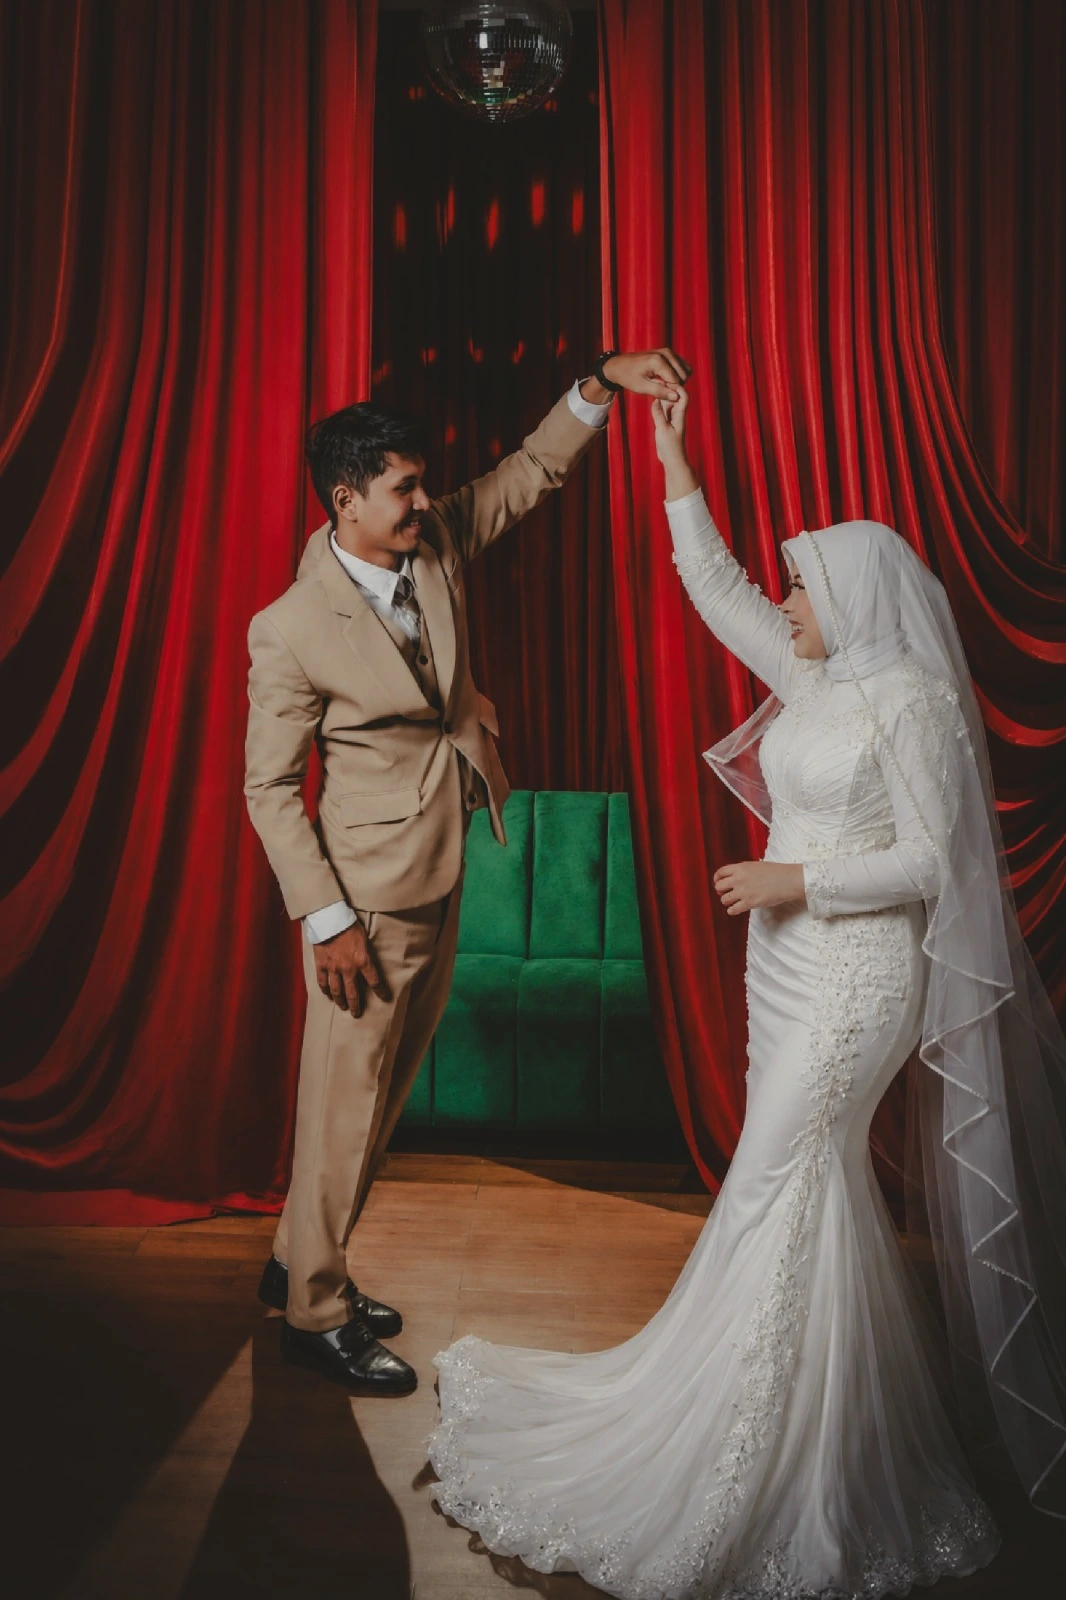
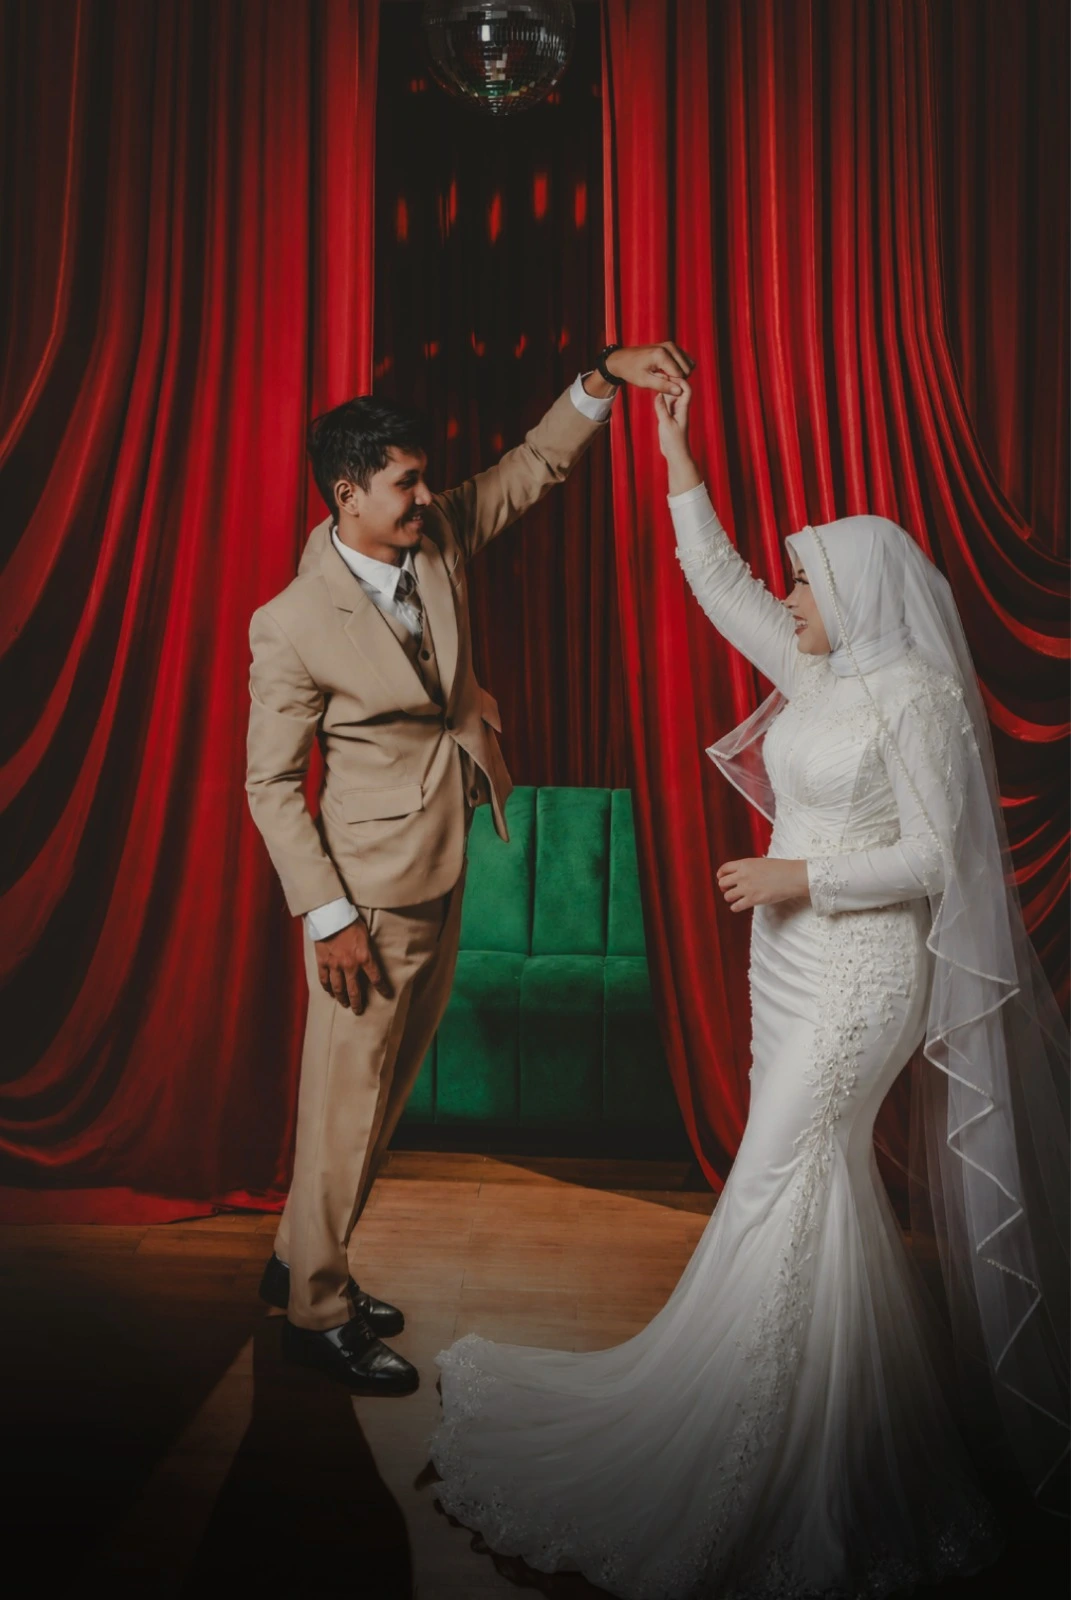
update again

diff --git a/src/components/sections/ClosingSection.tsx b/src/components/sections/ClosingSection.tsx
@@ -1,8 +1,7 @@
-import { Heart } from 'lucide-react'
 import { weddingData } from '../../data/wedding.data'
+import logoImage from '../../assets/logo-400.webp'
 
 export default function ClosingSection() {
-  const closingName = `${weddingData.groom.firstName} & ${weddingData.bride.firstName}`
   const fallbackImg = 'https://images.unsplash.com/photo-1519741497674-611481863552?w=1920&q=80&fit=crop'
   const closingImage = weddingData.gallery?.[4]?.src || weddingData.gallery?.[0]?.src || fallbackImg
 
@@ -11,100 +10,51 @@ export default function ClosingSection() {
       id="closing"
       data-section
       data-theme="dark"
-      data-wow="true"
-      className="relative -mt-px flex min-h-screen w-full flex-col justify-end overflow-hidden bg-[#050505] px-6 pb-32 pt-32 text-[#F5F5F0] transition-colors duration-500 md:px-12 md:pb-40"
+      className="relative flex min-h-screen w-full flex-col items-center justify-between overflow-hidden bg-[#050505] px-6 py-12 md:py-20 text-[#F5F5F0]"
     >
-      <div
-        className="absolute inset-0 z-0"
-        style={{
-          WebkitMaskImage:
-            'linear-gradient(to bottom, rgba(0,0,0,0.24) 0%, rgba(0,0,0,0.58) 20%, rgba(0,0,0,0.88) 58%, #000 84%)',
-          maskImage:
-            'linear-gradient(to bottom, rgba(0,0,0,0.24) 0%, rgba(0,0,0,0.58) 20%, rgba(0,0,0,0.88) 58%, #000 84%)',
-        }}
-      >
+      {/* Background Image */}
+      <div className="absolute inset-0 z-0">
         <img
           src={closingImage}
           alt=""
           aria-hidden="true"
-          className="h-full w-full object-cover opacity-60 grayscale transition-opacity duration-500"
+          className="h-full w-full object-cover opacity-50 grayscale transition-opacity duration-500"
         />
-        <div className="absolute inset-0 bg-[#050505]/56 transition-colors duration-500" />
-        <div className="absolute inset-0 bg-[radial-gradient(ellipse_at_center,transparent_0%,#050505_100%)] opacity-72 transition-colors duration-500" />
-      </div>
-      <div className="pointer-events-none absolute inset-x-0 top-0 z-[1] h-28 bg-gradient-to-b from-[#050505] via-[#050505]/54 to-transparent md:h-36" aria-hidden="true" />
-
-      <div className="relative z-10 mx-auto flex min-h-[60vh] w-full max-w-[1400px] flex-col justify-between gap-24">
-        <div
-          className="flex flex-col items-center gap-6 text-center md:ml-auto md:mr-12 md:max-w-[600px] md:items-start md:text-left"
-          data-aos="fade-up"
-          data-aos-duration="700"
-          data-aos-easing="ease-out-cubic"
-        >
-          <span className="font-mono text-[9px] uppercase tracking-[0.4em] text-[#A4A4A4] transition-colors duration-500 md:text-[10px]">
-            Terima Kasih
-          </span>
-
-          <p className="font-montserrat text-[19px] font-semibold leading-relaxed text-[#F5F5F0] md:text-[26px]">
-            &ldquo;{weddingData.closingQuote.text}&rdquo;
-          </p>
-
-          <p className="mt-1 font-montserrat text-[11px] font-semibold uppercase tracking-[0.3em] text-[#A4A4A4] transition-colors duration-500 md:text-[12px]">
-            - {weddingData.closingQuote.author}
-          </p>
-        </div>
-
-        <div
-          className="mt-auto flex flex-col items-center gap-8 text-center md:items-start md:text-left"
-          data-aos="fade-up"
-          data-aos-duration="700"
-          data-aos-easing="ease-out-cubic"
-          data-aos-delay="80"
-        >
-          <h2
-            className="whitespace-nowrap font-athene text-[#F5F5F0]"
-            style={{
-              fontSize: 'clamp(34px, 9.5vw, 160px)',
-              lineHeight: 0.85,
-              letterSpacing: '0em',
-              maxWidth: '100%',
-            }}
-            aria-label={closingName}
-          >
-            {closingName.split('').map((char, index) => (
-              <span
-                key={`${char}-${index}`}
-                aria-hidden="true"
-                className="inline-block"
-                style={{ display: char === ' ' ? 'inline' : 'inline-block' }}
-              >
-                {char === ' ' ? '\u00A0' : char}
-              </span>
-            ))}
-          </h2>
-
-          <div className="mt-2 flex flex-col items-center gap-4 md:items-start">
-            <p className="font-mono text-[9px] uppercase tracking-[0.5em] text-[#A4A4A4] transition-colors duration-500 md:text-[11px]">
-              {weddingData.wedding.dateFormatted}
-            </p>
-            <p className="mt-2 max-w-md border-t border-[rgba(245,245,240,0.1)] pt-4 font-montserrat text-[13px] font-semibold leading-relaxed text-[#A4A4A4] transition-colors duration-500 md:text-[14px]">
-              Terima kasih telah menjadi bagian dari hari paling berharga dalam hidup kami. Kehadiran dan doa Anda adalah berkah yang tak ternilai.
-            </p>
-            <div className="flex items-center gap-3 pt-1 text-[#F5F5F0]/70 transition-colors duration-500" aria-hidden="true">
-              <span className="h-px w-10 bg-[#F5F5F0]/20 transition-colors duration-500" />
-              <Heart size={14} strokeWidth={1.25} />
-              <span className="h-px w-10 bg-[#F5F5F0]/20 transition-colors duration-500" />
-            </div>
-          </div>
-        </div>
+        <div className="absolute inset-0 bg-gradient-to-b from-[#050505] via-transparent to-[#050505] opacity-90" />
       </div>
 
-      <p className="absolute bottom-6 left-1/2 z-20 -translate-x-1/2 font-mono text-[9px] uppercase tracking-[0.24em] text-[#A4A4A4]/70 transition-colors duration-500 md:bottom-8">
-        Created by Jakkob Panj
-      </p>
+      {/* Top Content */}
+      <div 
+        className="relative z-10 mt-16 md:mt-24 flex w-full max-w-4xl flex-col items-center gap-6 text-center md:gap-8"
+        data-aos="fade-up"
+        data-aos-duration="1000"
+      >
+        <h2 className="font-athene text-[34px] leading-[1.15] md:text-[56px] lg:text-[72px] uppercase tracking-wide">
+          Dengan Penuh Rasa Syukur<br />
+          Atas Kehadiran Dan<br />
+          Doa Restu Anda
+        </h2>
+        <p className="max-w-[600px] font-montserrat text-[13px] md:text-[15px] leading-relaxed text-[#F5F5F0]/90">
+          Kami tidak sabar untuk berbagi momen spesial ini bersama Anda. Kehadiran Anda akan membuat hari kami menjadi lebih bermakna.
+        </p>
+        <img 
+          src={logoImage} 
+          alt="Wedding Logo" 
+          className="mt-6 w-[120px] object-contain opacity-90 md:mt-8 md:w-[150px]" 
+        />
+      </div>
 
-      <div className="pointer-events-none absolute bottom-0 left-0 right-0 z-10 h-40 bg-gradient-to-t from-[#050505] to-transparent transition-colors duration-500" />
+      {/* Bottom Content */}
+      <div 
+        className="relative z-10 mb-8 mt-12 flex w-full flex-col items-center text-center"
+        data-aos="fade-in"
+        data-aos-duration="1000"
+        data-aos-delay="300"
+      >
+        <p className="font-montserrat text-[10px] md:text-xs opacity-50">
+          © 2026 Jakkob Panj, All rights reserved.
+        </p>
+      </div>
     </section>
   )
 }
-

diff --git a/src/components/sections/LoveStorySection.tsx b/src/components/sections/LoveStorySection.tsx
@@ -340,7 +340,7 @@ export function LoveStorySection() {
 
                     {/* Story Artwork Card */}
                     <div className="mobile-card relative z-10 w-full pl-[44px] pr-0 sm:pl-[58px]">
-                      <figure className="relative w-full overflow-hidden rounded-[2px] shadow-[0_18px_40px_rgba(0,0,0,0.38)] transition-all duration-500 ease-out group-hover:-translate-y-1 group-hover:shadow-[0_24px_52px_rgba(0,0,0,0.50)] active:scale-[0.99]">
+                      <figure className="relative w-full overflow-hidden rounded-[2px] transition-transform duration-500 ease-out group-hover:-translate-y-1 active:scale-[0.99]">
                         <div className="pointer-events-none absolute inset-0 opacity-0 group-hover:opacity-100 transition-opacity duration-500 overflow-hidden" aria-hidden="true">
                           <div 
                             className="absolute top-0 h-full w-[250%]"
@@ -452,7 +452,7 @@ export function LoveStorySection() {
                       >
                         {/* Story Artwork Card */}
                         <div className="desktop-card-reveal transform-gpu will-change-transform">
-                          <figure className="desktop-card relative w-[min(43vw,460px)] overflow-hidden rounded-[2px] shadow-[0_20px_46px_rgba(0,0,0,0.38)] transition-[box-shadow,transform] duration-500 ease-out group-hover:-translate-y-[6px] group-hover:shadow-[0_28px_64px_rgba(0,0,0,0.52)] xl:w-[min(44vw,580px)] 2xl:w-[620px]">
+                          <figure className="desktop-card relative w-[min(43vw,460px)] overflow-hidden rounded-[2px] transition-transform duration-500 ease-out group-hover:-translate-y-[6px] xl:w-[min(44vw,580px)] 2xl:w-[620px]">
                             <div className="pointer-events-none absolute inset-0 opacity-0 group-hover:opacity-100 transition-opacity duration-500 overflow-hidden" aria-hidden="true">
                               <div
                                 className="absolute top-0 h-full w-[250%]"

diff --git a/src/components/sections/CountdownSection.tsx b/src/components/sections/CountdownSection.tsx
@@ -103,7 +103,7 @@ export default function CountdownSection() {
               Menuju Hari Bahagia
             </span>
             <h2
-              className={`font-athene text-[40px] leading-[1.05] transition-colors duration-500 md:text-[64px] lg:text-[76px] ${textClass}`}
+              className="font-athene text-[40px] leading-[1.05] transition-colors duration-500 md:text-[64px] lg:text-[76px] text-[#d3a575]"
             >
               {isPast ? 'Hari Bahagia Telah Tiba' : 'Menghitung Hari'}
             </h2>

diff --git a/src/data/wedding.data.ts b/src/data/wedding.data.ts
@@ -178,10 +178,7 @@ export const weddingData = {
       attending: true,
     },
   ],
-  closingQuote: {
-    text: 'Pernikahan adalah awal dari sebuah taman yang harus kalian rawat bersama setiap harinya.',
-    author: '— Mark Twain',
-  },
+
   navigation: [
     { name: 'Home', href: '#hero' },
     { name: 'Couple', href: '#couple' },
